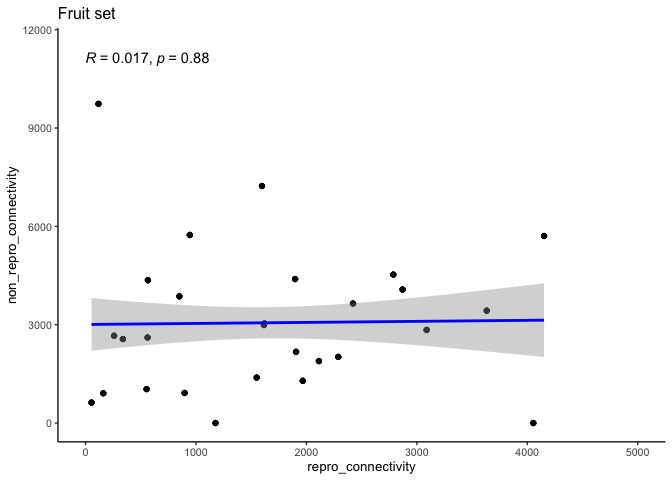
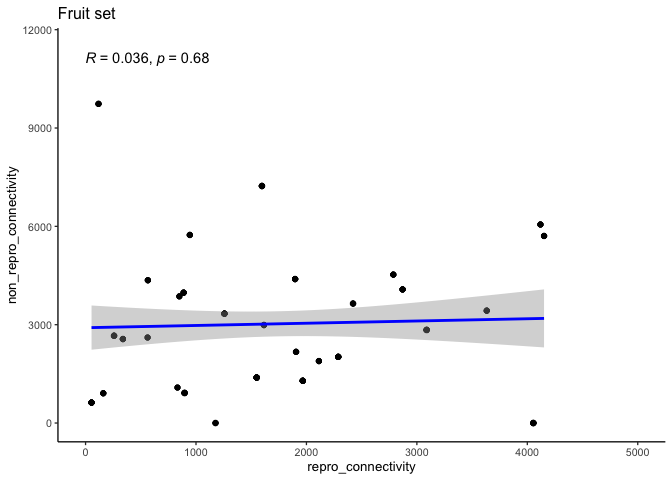
make fig horizontal

Changed region(s): [[0.125, 0.5938, 0.8125, 0.75], [0.1875, 0.0938, 0.2188, 0.1562], [0.25, 0.7812, 0.2812, 0.8125]]

diff --git a/code/exploration/2024-02-16_density-pairs.md b/code/exploration/2024-02-16_density-pairs.md
@@ -1,7 +1,7 @@
 Conspecific density correlations?
 ================
 eleanorjackson
-22 February, 2024
+27 February, 2024
 
 ``` r
 library("tidyverse")
@@ -11,7 +11,7 @@ library("patchwork")
 ```
 
 ``` r
-readRDS(here::here("data", "clean", "fruit_drop_data.rds")) %>%
+readRDS(here::here("data", "clean", "fruit_set_data.rds")) %>%
   ggplot(aes(x = repro_connectivity, y = non_repro_connectivity)) +
   geom_point() +
   ggpubr::stat_cor() +
@@ -31,7 +31,7 @@ p1
 without outliers:
 
 ``` r
-readRDS(here::here("data", "clean", "fruit_drop_data.rds")) %>%
+readRDS(here::here("data", "clean", "fruit_set_data.rds")) %>%
   ggplot(aes(x = repro_connectivity, y = non_repro_connectivity)) +
   geom_point() +
   xlim(0, 5000) +
@@ -41,13 +41,13 @@ readRDS(here::here("data", "clean", "fruit_drop_data.rds")) %>%
   labs(title = "Fruit set") 
 ```
 
-    ## Warning: Removed 12 rows containing non-finite values (`stat_cor()`).
+    ## Warning: Removed 15 rows containing non-finite values (`stat_cor()`).
 
     ## `geom_smooth()` using formula = 'y ~ x'
 
-    ## Warning: Removed 12 rows containing non-finite values (`stat_smooth()`).
+    ## Warning: Removed 15 rows containing non-finite values (`stat_smooth()`).
 
-    ## Warning: Removed 12 rows containing missing values (`geom_point()`).
+    ## Warning: Removed 15 rows containing missing values (`geom_point()`).
 
 ![](figures/2024-02-16_density-pairs/unnamed-chunk-2-1.png)<!-- -->
 
@@ -137,9 +137,8 @@ Correlation coefficients of less than 0.2 are usually classed as “very
 weak to no correlation”.
 
 ``` r
-p1 / p2 / p3 +
-  labs(x = "Reproductive conspecific density", 
-       y = "Non-reproductive conspecific density")
+p1 + p2 + p3 &
+  theme_classic(base_size = 15)
 ```
 
     ## `geom_smooth()` using formula = 'y ~ x'
